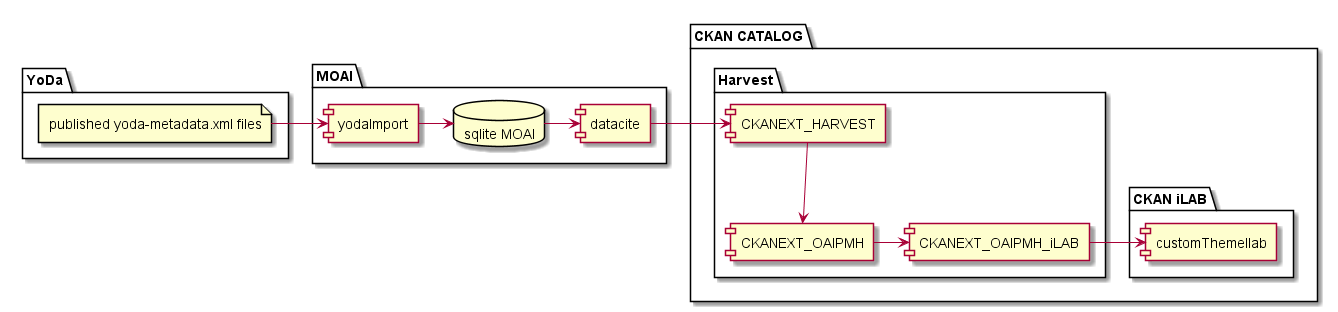
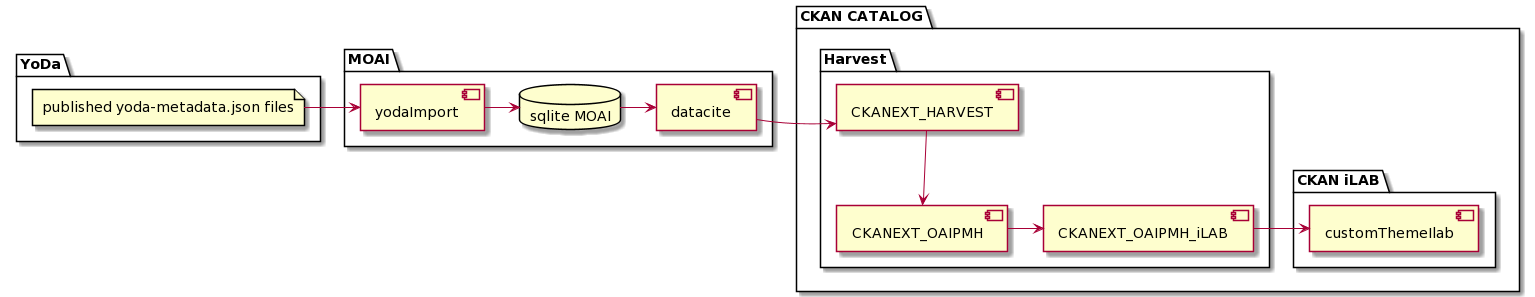
Migrate from DataCite MDS to DataCite REST API.

Changed region(s): [[0.0, 0.0, 1.0, 1.0]]

diff --git a/docs/design/overview/yoda-moai.md b/docs/design/overview/yoda-moai.md
@@ -12,15 +12,15 @@ MOAI offers harvesting functionality following the OAI-PMH standard with the fle
 Currently, Dublin Core and DataCite are implemented as a metadata prefix.
 
 ## Provisioning MOAI database
-When publishing datasets from within Yoda, the corresponding yoda-metadata.xml is put in a location where the Yoda MOAI service can read and process it.  
-Each 5 minutes (configurable) the indicated folder is scanned and newly published XML files are provisioned to the internal SQLite database.  
-The data is prepared in the database as such that it is able to provide output in XML form, on request of a harvester.
+When publishing datasets from within Yoda, the corresponding yoda-metadata.json is put in a location where the Yoda MOAI service can read and process it.  
+Each 5 minutes (configurable) the indicated folder is scanned and newly published JSON files are provisioned to the internal SQLite database.  
+The data is prepared in the database as such that it is able to provide output in JSON form, on request of a harvester.
 Any OAI-PMH harvester able to read the Dublin Core and DataCite format is able to harvest Yoda through the endpoint serviced by MOAI.
 
 ## Yoda MOAI Technical
 ### Provision from Yoda  
 *Python -> yoda.py*  
-The  script reads all yoda-metadata.xml files that have been published and are placed in a specific folder.
+The  script reads all yoda-metadata.json files that have been published and are placed in a specific folder.
 After processing it puts the found content into the Yoda MOAI SQLite database.
 
 *'Collection name' as metadata for a dataset*  
@@ -42,4 +42,4 @@ select * from records;
 
 ### Deliver metadata in datacite format to harvesters  
 *python -> datacite.py*  
-Prepares the output data in such a way that the application data of Yoda, originally held in yoda-metadata.xml files, can be outputted to an XML response with DataCite as a metadata prefix.
+Prepares the output data in such a way that the application data of Yoda, originally held in yoda-metadata.json files, can be outputted to an JSON response with DataCite as a metadata prefix.

diff --git a/docs/design/processes/publication-process.md b/docs/design/processes/publication-process.md
@@ -30,12 +30,12 @@ Temporary collection will be rods owned and located at ``UUSYSTEMCOLLECTION/publ
 **Step 3:** Determine Last Modification Time
 - Add to State
 
-**Step 4:** Generate Combi XML consisting of user and system metadata
-- Save CombiXML in temporary collection
-- Add path of CombiXML to state
+**Step 4:** Generate Combi JSON consisting of user and system metadata
+- Save CombiJSON in temporary collection
+- Add path of CombiJSON to state
 
-**Step 5:** Generate DataCite XML from Combi XML
-- Add DataCite XML to state
+**Step 5:** Generate DataCite JSON from Combi JSON
+- Add DataCite JSON to state
 - On failure:
 	- Flag package with unrecoverable failure
 	- Bail
@@ -48,7 +48,7 @@ Temporary collection will be rods owned and located at ``UUSYSTEMCOLLECTION/publ
 - If not in use:
 	- Add DOI to metadata of Vault Package
 
-**Step 7:** Send DataCite XML
+**Step 7:** Send DataCite JSON
 - Retrieve DataCite url and DataCite credentials from credentials store
 - API request to metadata endpoint with DataCite XML
 - put result in state
@@ -60,7 +60,7 @@ Temporary collection will be rods owned and located at ``UUSYSTEMCOLLECTION/publ
 	- Bail
 
 **Step 8:** Create Landing Page
-- Use CombiXml to generate landing page
+- Use CombiJSON to generate landing page
 - Add landing page path to state
 - On failure:
 	- Flag package with unrecoverable failure
@@ -100,11 +100,11 @@ Depublication is performed with the differences noted below.
 
 Step 2 of the publication process above is skipped. A DOI has already been generated.
 
-**Step 4:** Generate Combi XML consisting only the system metadata, as the user metadata is being removed.
+**Step 4:** Generate Combi JSON consisting only the system metadata, as the user metadata is being removed.
 
 Step 5 and 6 of the publication process above are skipped.
 
-**Step 7:** Remove DataCite metadata
+**Step 7:** Remove (i.e. hide) DataCite metadata
 - Retrieve DataCite url and DataCite credentials from credentials store
 - API request to remove metadata from Datacite
 - put result in state

diff --git a/docs/design/metadata/metadata-mappings.md b/docs/design/metadata/metadata-mappings.md
@@ -12,8 +12,8 @@ in case of metadata schema changes. The template can be found in
 `/etc/irods/irods-ruleset-uu/templates/landingpage.html.j2`. The Ansible playbook activates this template
 by uploading it to the `/zone/yoda/templates/` collection.
 
-### XML generator for DataCite
-For DataCite a XML conforming to the DataCite Schema v4 is generated in Python.
+### JSON generator for DataCite
+For DataCite a JSON-file is generated conform the DataCite Schema v4.  
 This generator can be found in `/etc/irods/yoda-ruleset/json_datacite41.py`.
 
 ### OAI-PMH importer

diff --git a/docs/administration/configuring-yoda.md b/docs/administration/configuring-yoda.md
@@ -218,7 +218,7 @@ Variable   | Description
 datacite_username            | DataCite username
 datacite_password            | DataCite password
 datacite_prefix              | DataCite DOI prefix
-datacite_server              | DataCite server URI
+datacite_rest_api_url        | DataCite REST API URL
 
 ### EPIC PID Configuration
 
